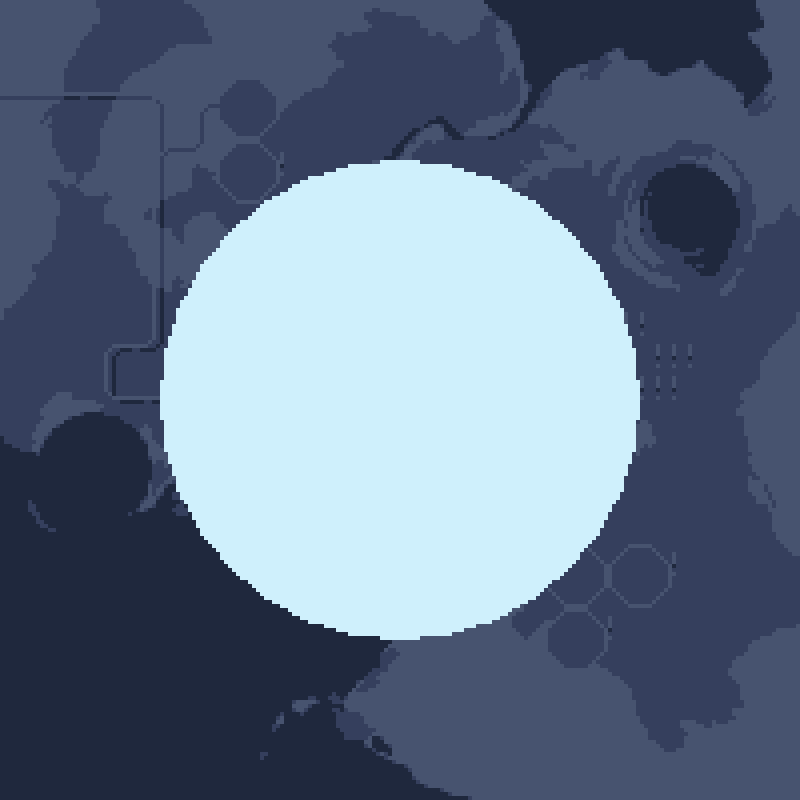
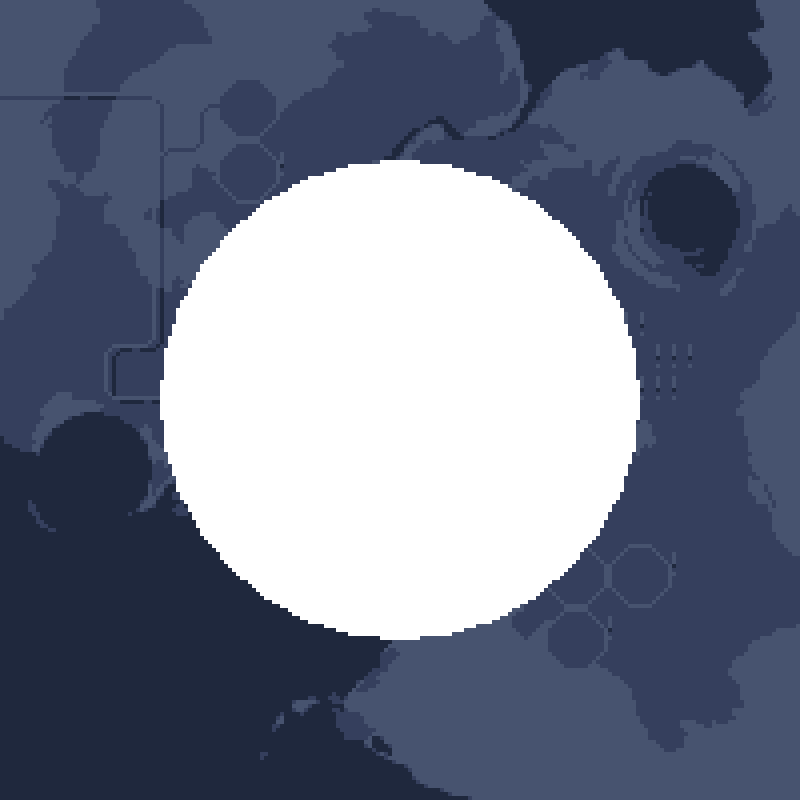
Blast effects (somehow one second behind)

Changed region(s): [[0.1875, 0.1875, 0.8125, 0.8125]]

diff --git a/Assets/Resources/Scripts/timerControlScr.cs b/Assets/Resources/Scripts/timerControlScr.cs
@@ -4,9 +4,13 @@ using UnityEngine;
 
 public class timerControlScr : MonoBehaviour {
 
+    public Sprite player1spr;
+    public Sprite player2spr;
+    public Sprite playerSilhouette;
+
     public bool mainTimerActive = true;
     public float timerTimer = 0;
-    public int timerSecondValue = 10;
+    public int timerSecondValue = 11;
     public float roundNumber = 0;
     public GameObject background;
     
@@ -26,13 +30,21 @@ public class timerControlScr : MonoBehaviour {
             timerTimer = 0;
             timerSecondValue--;
         }
+        if (timerSecondValue <= 1)
+        {
+            Debug.Log("IMPACT");
+            GameObject.Find("Player1").GetComponent<SpriteRenderer>().sprite = playerSilhouette;
+            GameObject.Find("Player2").GetComponent<SpriteRenderer>().sprite = playerSilhouette;
+        };
         if (timerSecondValue <= 0)
         {
             Debug.Log("ROUND " + roundNumber + " OVER");
-            timerSecondValue = 10;
+            GameObject.Find("Player1").GetComponent<SpriteRenderer>().sprite = player1spr;
+            GameObject.Find("Player2").GetComponent<SpriteRenderer>().sprite = player2spr;
+            timerSecondValue = 11;
             roundNumber++;
         };
-        if (roundNumber >= 11)
+        if (roundNumber >= 12)
         {
             Debug.Log("GAME END");
             roundNumber = 1;
